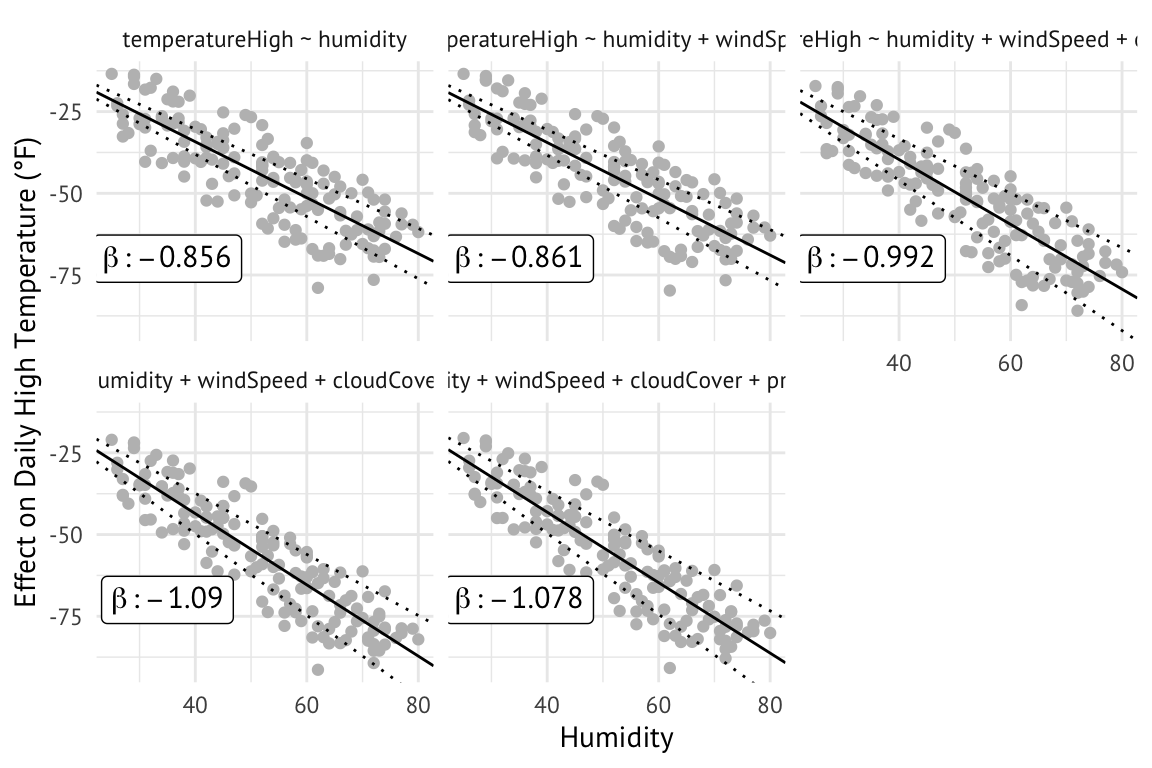
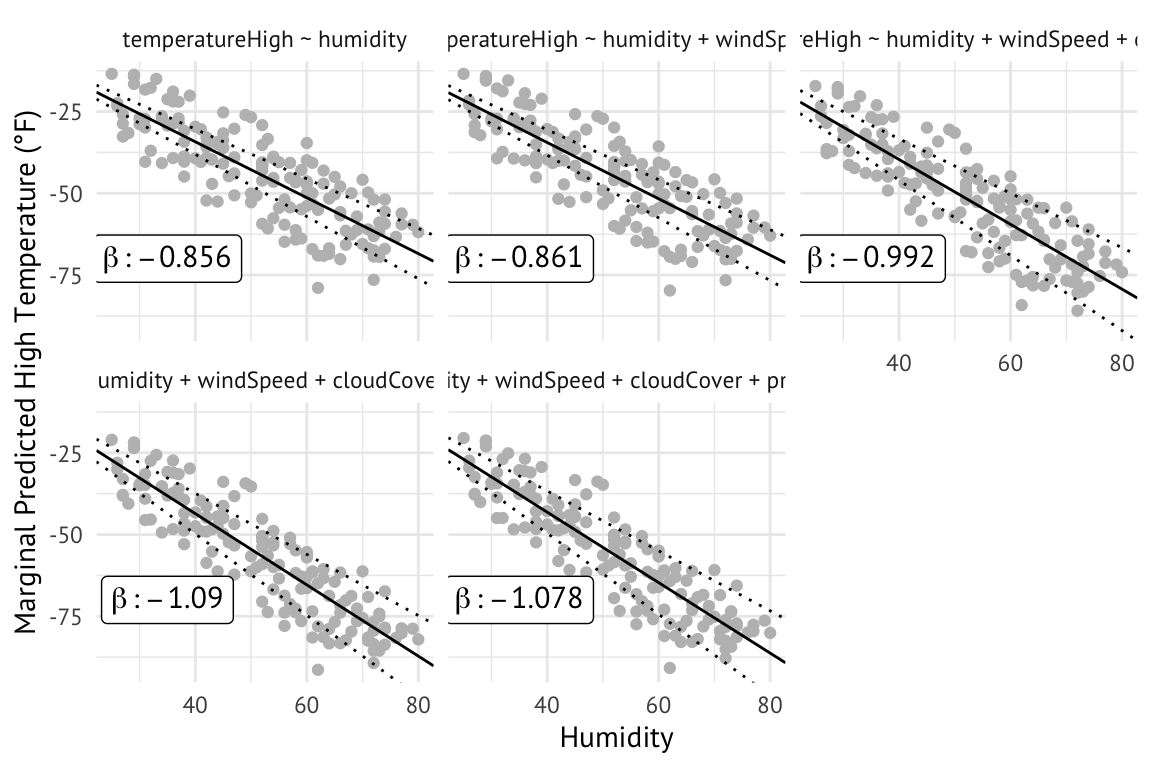
Site build Fri Oct 19 15:34:46 CDT 2018

Changed region(s): [[0.0, 0.1562, 0.0312, 0.8438]]

diff --git a/2018/2018-10-19-partialling-out/index.html b/2018/2018-10-19-partialling-out/index.html
@@ -60,7 +60,7 @@
     "datePublished": "2018-10-19 00:00:00 &#43;0000 UTC",
     "dateModified" : "2018-10-19 00:00:00 &#43;0000 UTC",
     "url" : "/2018/2018-10-19-partialling-out/",
-    "wordCount" : "1411",
+    "wordCount" : "1410",
     "keywords" : [ "Visualization","R", "Michael DeCrescenzo"]
 }
 </script>
@@ -358,7 +358,7 @@ ggplot(data = model_partials, aes(x = humidity, y = partial + .resid)) +
              aes(x = 35, y = -70, label = paste0(&quot;beta: &quot;, round(humidity_beta, 3)), group = formula),
              parse = TRUE,
              family = &quot;PT Sans&quot;, size = 4) +
-  labs(x = &quot;Humidity&quot;, y = &quot;Effect on Daily High Temperature (°F)&quot;,
+  labs(x = &quot;Humidity&quot;, y = &quot;Partial Predicted High Temperature (°F)&quot;,
        subtitle = &quot;{closest_state}&quot;) +
   transition_states(formula, transition_length = 0.25, state_length = 0.5) +
   enter_fade() +
